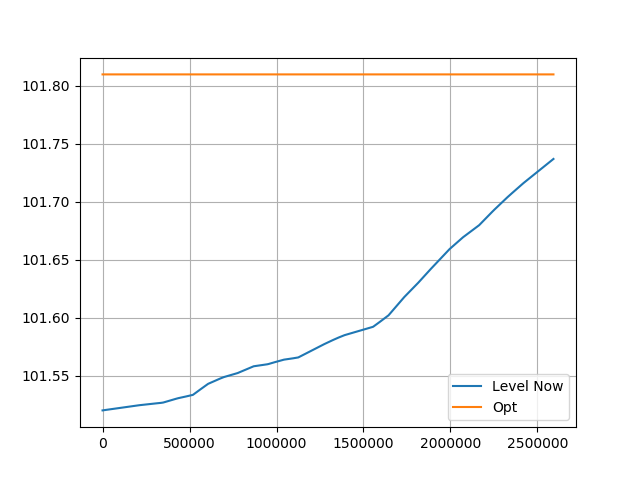
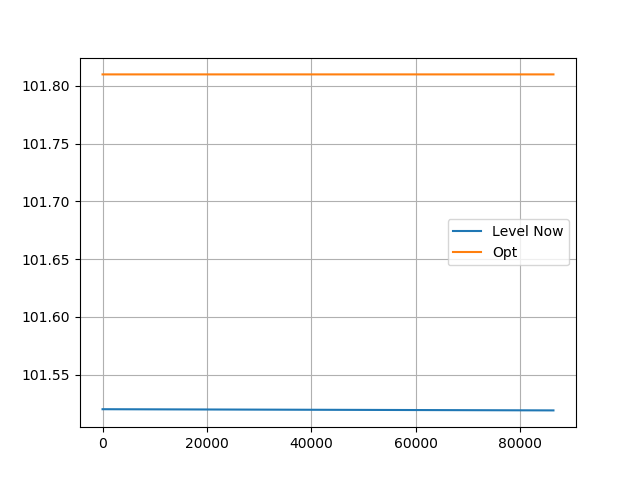
Ver_0.45 With Min Level

diff --git a/GES_Kaskad.py b/GES_Kaskad.py
@@ -23,21 +23,24 @@ class GES():
 
     def compare(self, current_Level, prit, rashod, proc_now, TIME_FOR_FULL_OPEN):
         MIN_RASHOD = 1 * 10 ** (-7)
-        if current_Level < self.NPU * 1.000001 and current_Level > self.NPU * 0.999999999:
+        if current_Level < self.NPU * 1.01 and current_Level > self.NPU * 0.99:
             treb_proc = prit / V_to_H(self.MAX_SBROS, self.S_ZERKALA)
+            if treb_proc * V_to_H(self.MAX_SBROS, self.S_ZERKALA) < MIN_RASHOD:
+                treb_proc = MIN_RASHOD / V_to_H(self.MAX_SBROS, self.S_ZERKALA)
             if treb_proc > 1:
                 treb_proc = 1
             return treb_proc
         else:
             if self.NPU > current_Level:
                 if (current_Level - self.UMO) > 0:
-                    treb_proc = -(math.log10((current_Level - self.UMO) / (self.NPU - self.UMO)))
+
+                    treb_proc = math.sqrt((-(math.log10((current_Level - self.UMO) / (self.NPU - self.UMO)))) ** 2 + (
+                                prit / V_to_H(self.MAX_SBROS, self.S_ZERKALA)) ** 2)
                     # print(treb_proc, 'menishe')
                     # print(prit,rashod)
                     # if prit * self.delay(treb_proc, proc_now, TIME_FOR_FULL_OPEN) * self.MAX_SBROS > rashod:
                     #  treb_proc = prit / V_to_H(self.MAX_SBROS, self.S_ZERKALA)*abs(rashod-prit)
-                    if self.delay(treb_proc, proc_now, TIME_FOR_FULL_OPEN) * V_to_H(self.MAX_SBROS,
-                                                                                    self.S_ZERKALA) < MIN_RASHOD:
+                    if treb_proc * V_to_H(self.MAX_SBROS, self.S_ZERKALA) < MIN_RASHOD:
                         treb_proc = MIN_RASHOD / V_to_H(self.MAX_SBROS, self.S_ZERKALA)
                     if treb_proc <= 0:
                         treb_proc = 0
@@ -50,13 +53,14 @@ class GES():
                     return 0
             else:
                 if (self.FPU - current_Level) > 0:
-                    treb_proc = -(math.log10(((self.FPU - current_Level)) / (self.FPU - self.NPU)))
+                    treb_proc = math.sqrt((-(math.log10((current_Level - self.UMO) / (self.NPU - self.UMO)))) ** 2 + (
+                                prit / V_to_H(self.MAX_SBROS, self.S_ZERKALA)) ** 2)
                     # print(treb_proc, 'Bol')
-                    if prit * self.delay(treb_proc, proc_now, TIME_FOR_FULL_OPEN) * self.MAX_SBROS > rashod:
-                        treb_proc = prit / V_to_H(self.MAX_SBROS, self.S_ZERKALA) * abs(rashod - prit)
-                        if self.delay(treb_proc, proc_now, TIME_FOR_FULL_OPEN) * V_to_H(self.MAX_SBROS,
-                                                                                        self.S_ZERKALA) < MIN_RASHOD:
-                            treb_proc = MIN_RASHOD / V_to_H(self.MAX_SBROS, self.S_ZERKALA)
+                    # if prit * self.delay(treb_proc, proc_now, TIME_FOR_FULL_OPEN) * self.MAX_SBROS > rashod:
+                    #   treb_proc = prit / V_to_H(self.MAX_SBROS, self.S_ZERKALA) * abs(rashod - prit)
+                    if self.delay(treb_proc, proc_now, TIME_FOR_FULL_OPEN) * V_to_H(self.MAX_SBROS,
+                                                                                    self.S_ZERKALA) < MIN_RASHOD:
+                        treb_proc = MIN_RASHOD / V_to_H(self.MAX_SBROS, self.S_ZERKALA)
 
                     if treb_proc <= 0:
                         treb_proc = 0
@@ -74,11 +78,12 @@ class GES():
         proc_v_sec = 1 / TIME_FOR_FULL_OPEN
         if proctreb < 0:
             return 0
+
         if abs((proctreb - procnow)) > proc_v_sec:
             if proctreb > procnow:
-                procnow = procnow + proc_v_sec
+                procnow = proctreb + proc_v_sec
             if proctreb < procnow:
-                procnow = procnow - proc_v_sec
+                procnow = proctreb - proc_v_sec
             return procnow
         else:
             return proctreb
@@ -114,10 +119,10 @@ def main():
     else:
         file_name = os.getcwd() + '/GES_DATA.json'
     DATA = Grafiki_Ischod.get_struct(file_name)
-    period = 365
+    period = 50
     S_ZERKALA_1 = 4550 * 1000 * 1000
-    MAX_RASHOD_1 = 300
-    VREMYA_POLNOGO_OTKR_1 = 60
+    MAX_RASHOD_1 = 600
+    VREMYA_POLNOGO_OTKR_1 = 100
     S_ZERKALA_2 = 1591 * 1000 * 1000
     MAX_RASHOD_2 = 300
     VREMYA_POLNOGO_OTKR_2 = 60
@@ -147,7 +152,7 @@ def main():
     ges3 = GES(DATA[name2][datenow_str], S_ZERKALA_3, MAX_RASHOD_3)
     current_levels = [ges1.Level, ges2.Level, ges3.Level]
     times = [i for i in range(1, time)]
-    proc_now = 0
+    proc_now1 = 0
     proc_now2 = 0
     proc_now3 = 0
     raschod1 = 0
@@ -166,10 +171,10 @@ def main():
             pritok1.append(prit)
             current_level = prit + current_levels[0]
             # proc_treb.append((ges1.compare(current_level, prit, raschod1, proc_now, VREMYA_POLNOGO_OTKR_1)))
-            proc_now = ges1.delay((ges1.compare(current_level, prit, raschod1, proc_now, VREMYA_POLNOGO_OTKR_1)),
-                                  proc_now, VREMYA_POLNOGO_OTKR_1)
+            proc_now1 = ges1.delay((ges1.compare(current_level, prit, raschod1, proc_now1, VREMYA_POLNOGO_OTKR_1)),
+                                   proc_now1, VREMYA_POLNOGO_OTKR_1)
             # print(proc_now)
-            raschod1 = V_to_H(ges1.MAX_SBROS, ges1.S_ZERKALA) * proc_now
+            raschod1 = V_to_H(ges1.MAX_SBROS, ges1.S_ZERKALA) * proc_now1
             raschod1mas.append(raschod1)
             current_levels[0] = current_level - raschod1
             prit = V_to_H(H_to_V(raspred_na_den_with_noise(raschod1), ges1.S_ZERKALA, ),
@@ -225,7 +230,7 @@ def main():
     plt.savefig('3.png')
     fig = plt.figure()
     plt.plot([i for i in range(len(levels1))], pritok1, label='prit')
-    plt.plot([i for i in range(len(levels1))], raschod3mas, label='raschd')
+    plt.plot([i for i in range(len(levels1))], raschod1mas, label='raschd')
     plt.legend()
     plt.grid()
     plt.savefig('4.png')
